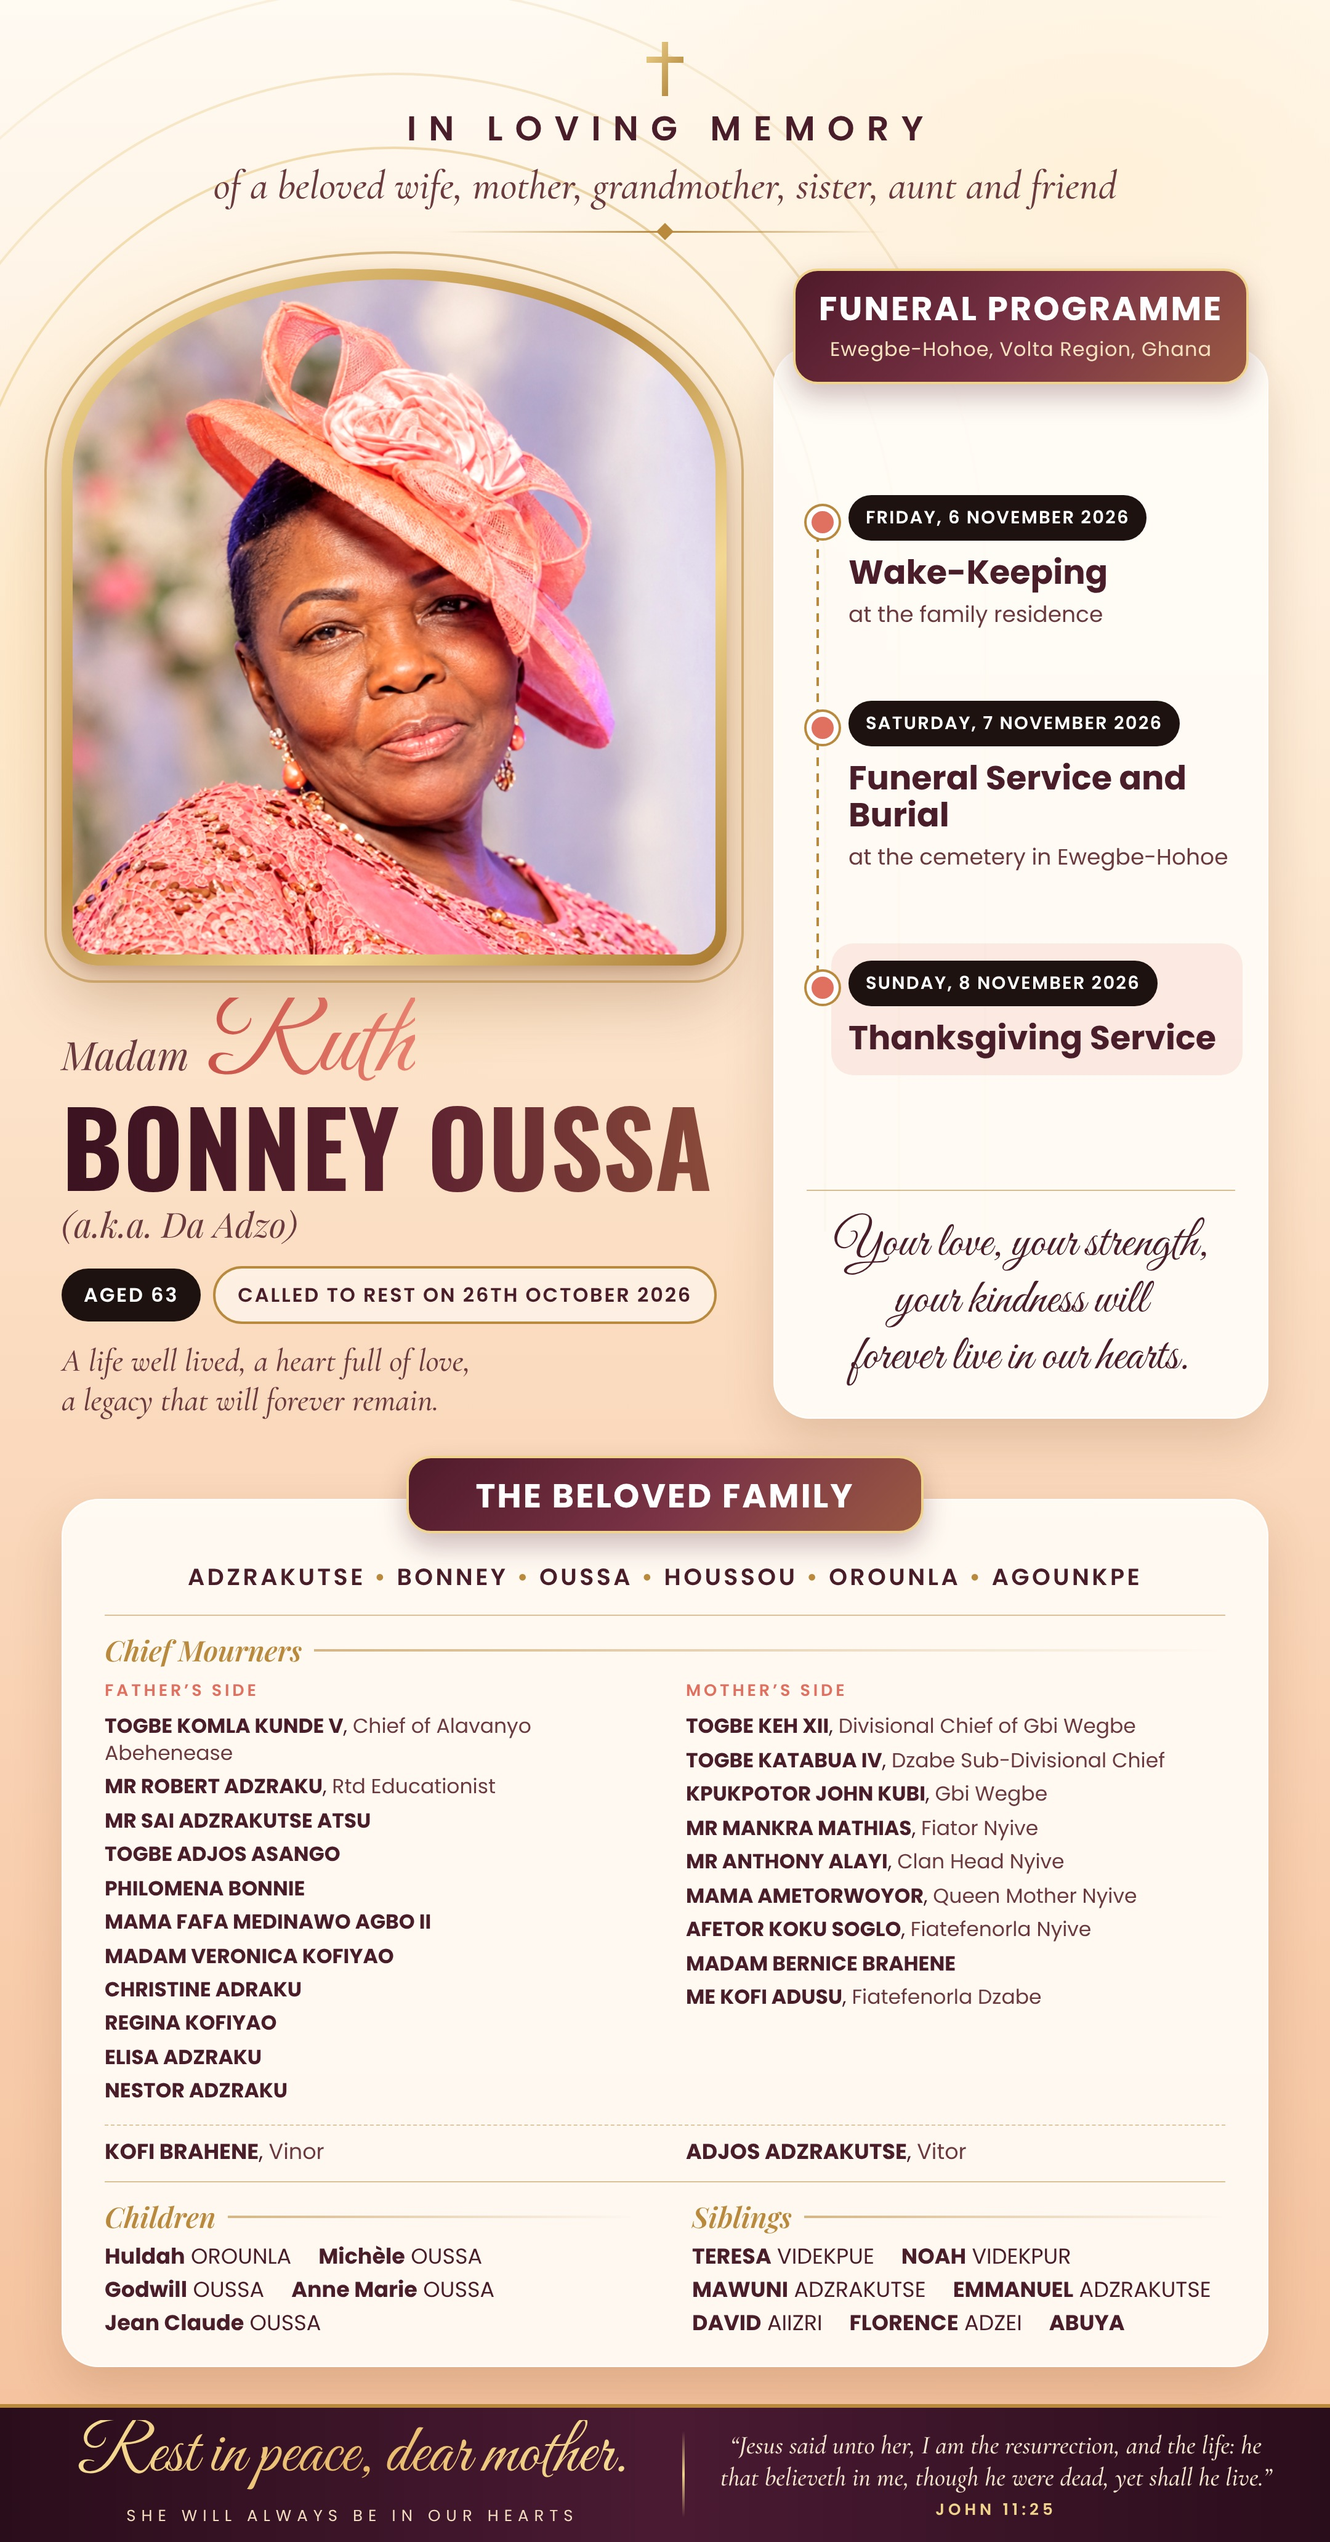
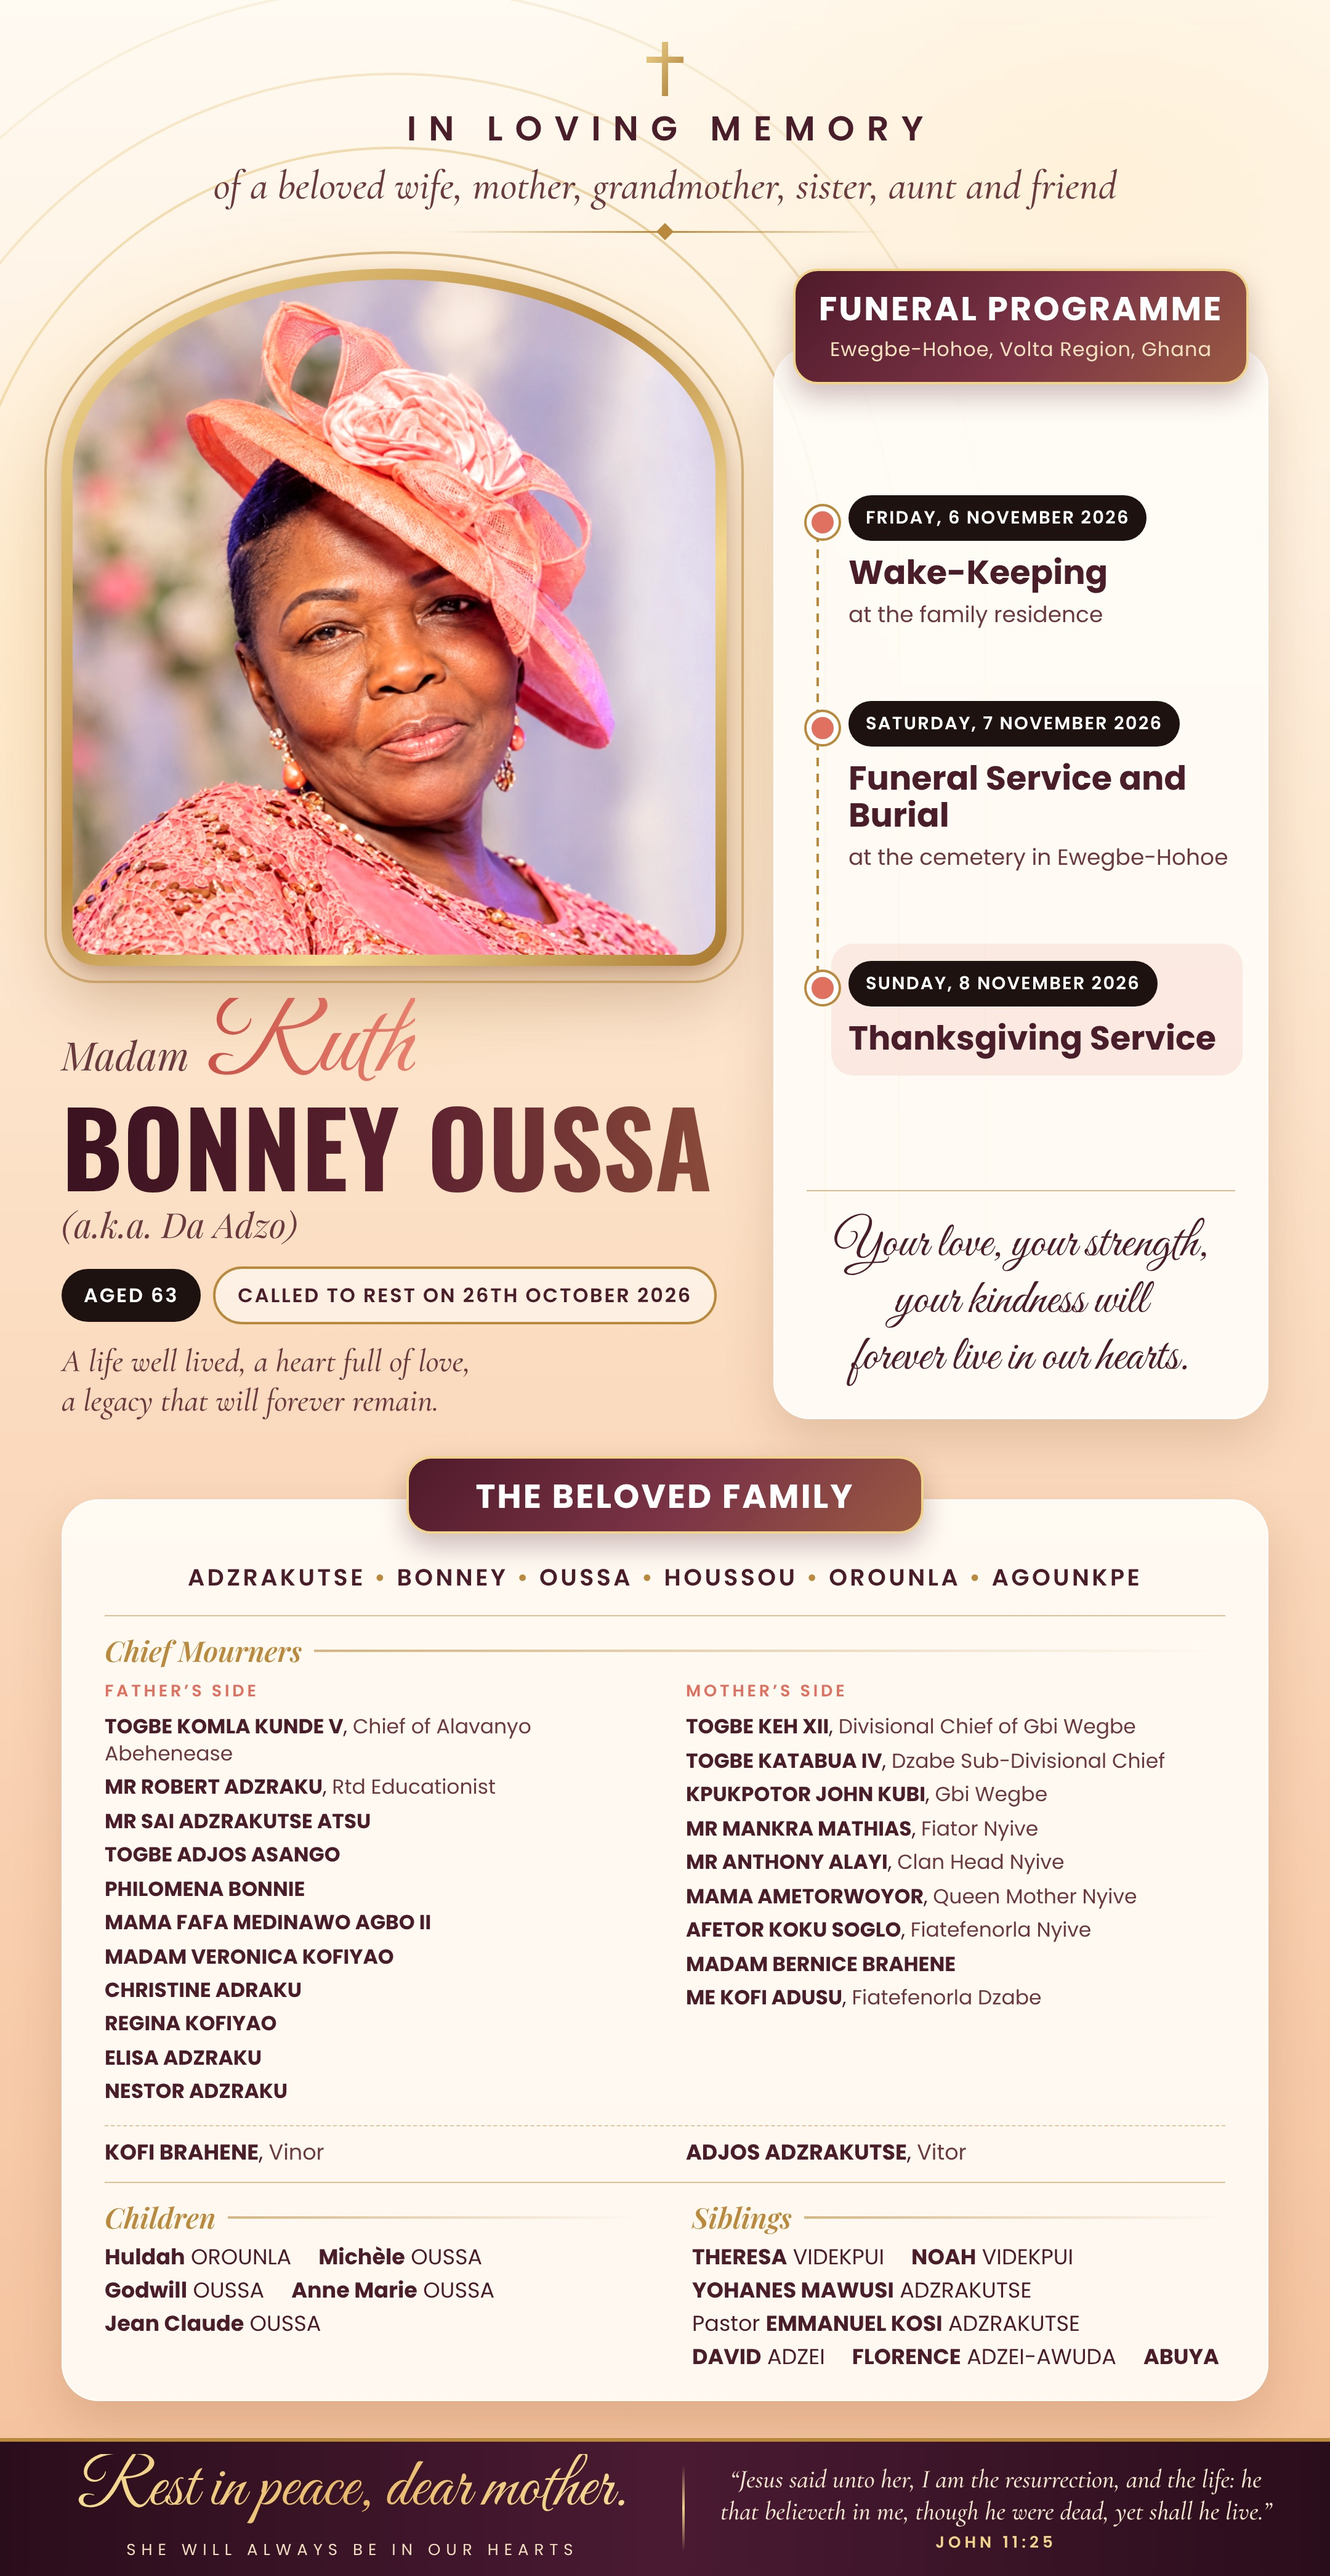
Posters: update siblings' names from the biography (EN/FR, tall and square)
Claude-Session: https://claude.ai/code/session_01K4EnF2A5EJ5axGxs2C2Gak

diff --git a/affiche-ruth-bonney-oussa/src/affiche-en-square.html b/affiche-ruth-bonney-oussa/src/affiche-en-square.html
@@ -159,7 +159,7 @@ footer .jn b{display:block;font-family:'Poppins',sans-serif;font-style:normal;fo
           <h4>Children</h4>
           <p class="names"><span class="nw"><b>Huldah</b> OROUNLA</span> <span class="nw"><b>Michèle</b> OUSSA</span> <span class="nw"><b>Godwill</b> OUSSA</span> <span class="nw"><b>Anne Marie</b> OUSSA</span> <span class="nw"><b>Jean Claude</b> OUSSA</span></p>
           <h4>Siblings</h4>
-          <p class="names"><span class="nw"><b>TERESA</b> VIDEKPUE</span> <span class="nw"><b>NOAH</b> VIDEKPUR</span> <span class="nw"><b>MAWUNI</b> ADZRAKUTSE</span> <span class="nw"><b>EMMANUEL</b> ADZRAKUTSE</span> <span class="nw"><b>DAVID</b> AIIZRI</span> <span class="nw"><b>FLORENCE</b> ADZEI</span> <span class="nw"><b>ABUYA</b></span></p>
+          <p class="names"><span class="nw"><b>THERESA</b> VIDEKPUI</span> <span class="nw"><b>NOAH</b> VIDEKPUI</span> <span class="nw"><b>YOHANES MAWUSI</b> ADZRAKUTSE</span> <span class="nw">Pastor <b>EMMANUEL KOSI</b> ADZRAKUTSE</span> <span class="nw"><b>DAVID</b> ADZEI</span> <span class="nw"><b>FLORENCE</b> ADZEI-AWUDA</span> <span class="nw"><b>ABUYA</b></span></p>
         </div>
         <div class="c1" style="grid-row:2;grid-column:1"><div class="side">Father’s side</div><p><b>TOGBE KOMLA KUNDE V</b>, <span>Chief of Alavanyo Abehenease</span></p>
 <p><b>MR ROBERT ADZRAKU</b>, <span>Rtd Educationist</span></p>

diff --git a/affiche-ruth-bonney-oussa/src/template-square-en.html b/affiche-ruth-bonney-oussa/src/template-square-en.html
@@ -158,7 +158,7 @@ footer .jn b{display:block;font-family:'Poppins',sans-serif;font-style:normal;fo
           <h4>{{h_children}}</h4>
           {{children_html}}
           <h4>{{h_siblings}}</h4>
-          <p class="names"><span class="nw"><b>TERESA</b> VIDEKPUE</span> <span class="nw"><b>NOAH</b> VIDEKPUR</span> <span class="nw"><b>MAWUNI</b> ADZRAKUTSE</span> <span class="nw"><b>EMMANUEL</b> ADZRAKUTSE</span> <span class="nw"><b>DAVID</b> AIIZRI</span> <span class="nw"><b>FLORENCE</b> ADZEI</span> <span class="nw"><b>ABUYA</b></span></p>
+          <p class="names"><span class="nw"><b>THERESA</b> VIDEKPUI</span> <span class="nw"><b>NOAH</b> VIDEKPUI</span> <span class="nw"><b>YOHANES MAWUSI</b> ADZRAKUTSE</span> <span class="nw">Pastor <b>EMMANUEL KOSI</b> ADZRAKUTSE</span> <span class="nw"><b>DAVID</b> ADZEI</span> <span class="nw"><b>FLORENCE</b> ADZEI-AWUDA</span> <span class="nw"><b>ABUYA</b></span></p>
         </div>
         <div class="c1" style="grid-row:2;grid-column:1"><div class="side">{{side_father}}</div>{{father_html}}</div>
         <div class="c2" style="grid-row:2;grid-column:2"><div class="side">{{side_mother}}</div>{{mother_html}}</div>

diff --git a/affiche-ruth-bonney-oussa/src/template-square.html b/affiche-ruth-bonney-oussa/src/template-square.html
@@ -173,7 +173,7 @@ footer .jn b{display:block;font-family:'Poppins',sans-serif;font-style:normal;fo
           <h4>{{h_children}}</h4>
           {{children_html}}
           <h4>{{h_siblings}}</h4>
-          <p class="names"><span class="nw"><b>TERESA</b> VIDEKPUE</span> <span class="nw"><b>NOAH</b> VIDEKPUR</span> <span class="nw"><b>MAWUNI</b> ADZRAKUTSE</span> <span class="nw"><b>EMMANUEL</b> ADZRAKUTSE</span> <span class="nw"><b>DAVID</b> AIIZRI</span> <span class="nw"><b>FLORENCE</b> ADZEI</span> <span class="nw"><b>ABUYA</b></span></p>
+          <p class="names"><span class="nw"><b>THERESA</b> VIDEKPUI</span> <span class="nw"><b>NOAH</b> VIDEKPUI</span> <span class="nw"><b>YOHANES MAWUSI</b> ADZRAKUTSE</span> <span class="nw">Pastor <b>EMMANUEL KOSI</b> ADZRAKUTSE</span> <span class="nw"><b>DAVID</b> ADZEI</span> <span class="nw"><b>FLORENCE</b> ADZEI-AWUDA</span> <span class="nw"><b>ABUYA</b></span></p>
         </div>
       </div>
     </div>

diff --git a/affiche-ruth-bonney-oussa/src/affiche-fr-square.html b/affiche-ruth-bonney-oussa/src/affiche-fr-square.html
@@ -179,7 +179,7 @@ footer .jn b{display:block;font-family:'Poppins',sans-serif;font-style:normal;fo
           <p><b>Anne Marie</b> OUSSA</p>
         </div>
           <h4>Frères et sœurs</h4>
-          <p class="names"><span class="nw"><b>TERESA</b> VIDEKPUE</span> <span class="nw"><b>NOAH</b> VIDEKPUR</span> <span class="nw"><b>MAWUNI</b> ADZRAKUTSE</span> <span class="nw"><b>EMMANUEL</b> ADZRAKUTSE</span> <span class="nw"><b>DAVID</b> AIIZRI</span> <span class="nw"><b>FLORENCE</b> ADZEI</span> <span class="nw"><b>ABUYA</b></span></p>
+          <p class="names"><span class="nw"><b>THERESA</b> VIDEKPUI</span> <span class="nw"><b>NOAH</b> VIDEKPUI</span> <span class="nw"><b>YOHANES MAWUSI</b> ADZRAKUTSE</span> <span class="nw">Pastor <b>EMMANUEL KOSI</b> ADZRAKUTSE</span> <span class="nw"><b>DAVID</b> ADZEI</span> <span class="nw"><b>FLORENCE</b> ADZEI-AWUDA</span> <span class="nw"><b>ABUYA</b></span></p>
         </div>
       </div>
     </div>

diff --git a/affiche-ruth-bonney-oussa/src/affiche-fr.html b/affiche-ruth-bonney-oussa/src/affiche-fr.html
@@ -237,7 +237,7 @@ footer .jn b{display:block;font-family:'Poppins',sans-serif;font-style:normal;fo
         </div>
         <div class="col">
           <h4>Frères et sœurs</h4>
-          <p class="names"><span class="nw"><b>TERESA</b> VIDEKPUE</span> <span class="nw"><b>NOAH</b> VIDEKPUR</span> <span class="nw"><b>MAWUNI</b> ADZRAKUTSE</span> <span class="nw"><b>EMMANUEL</b> ADZRAKUTSE</span> <span class="nw"><b>DAVID</b> AIIZRI</span> <span class="nw"><b>FLORENCE</b> ADZEI</span> <span class="nw"><b>ABUYA</b></span></p>
+          <p class="names"><span class="nw"><b>THERESA</b> VIDEKPUI</span> <span class="nw"><b>NOAH</b> VIDEKPUI</span> <span class="nw"><b>YOHANES MAWUSI</b> ADZRAKUTSE</span> <span class="nw">Pastor <b>EMMANUEL KOSI</b> ADZRAKUTSE</span> <span class="nw"><b>DAVID</b> ADZEI</span> <span class="nw"><b>FLORENCE</b> ADZEI-AWUDA</span> <span class="nw"><b>ABUYA</b></span></p>
         </div>
       </div>
     </div>

diff --git a/affiche-ruth-bonney-oussa/src/template.html b/affiche-ruth-bonney-oussa/src/template.html
@@ -222,7 +222,7 @@ footer .jn b{display:block;font-family:'Poppins',sans-serif;font-style:normal;fo
         </div>
         <div class="col">
           <h4>{{h_siblings}}</h4>
-          <p class="names"><span class="nw"><b>TERESA</b> VIDEKPUE</span> <span class="nw"><b>NOAH</b> VIDEKPUR</span> <span class="nw"><b>MAWUNI</b> ADZRAKUTSE</span> <span class="nw"><b>EMMANUEL</b> ADZRAKUTSE</span> <span class="nw"><b>DAVID</b> AIIZRI</span> <span class="nw"><b>FLORENCE</b> ADZEI</span> <span class="nw"><b>ABUYA</b></span></p>
+          <p class="names"><span class="nw"><b>THERESA</b> VIDEKPUI</span> <span class="nw"><b>NOAH</b> VIDEKPUI</span> <span class="nw"><b>YOHANES MAWUSI</b> ADZRAKUTSE</span> <span class="nw">Pastor <b>EMMANUEL KOSI</b> ADZRAKUTSE</span> <span class="nw"><b>DAVID</b> ADZEI</span> <span class="nw"><b>FLORENCE</b> ADZEI-AWUDA</span> <span class="nw"><b>ABUYA</b></span></p>
         </div>
       </div>
     </div>

diff --git a/affiche-ruth-bonney-oussa/src/affiche-en.html b/affiche-ruth-bonney-oussa/src/affiche-en.html
@@ -248,7 +248,7 @@ footer .jn b{display:block;font-family:'Poppins',sans-serif;font-style:normal;fo
         </div>
         <div class="col">
           <h4>Siblings</h4>
-          <p class="names"><span class="nw"><b>TERESA</b> VIDEKPUE</span> <span class="nw"><b>NOAH</b> VIDEKPUR</span> <span class="nw"><b>MAWUNI</b> ADZRAKUTSE</span> <span class="nw"><b>EMMANUEL</b> ADZRAKUTSE</span> <span class="nw"><b>DAVID</b> AIIZRI</span> <span class="nw"><b>FLORENCE</b> ADZEI</span> <span class="nw"><b>ABUYA</b></span></p>
+          <p class="names"><span class="nw"><b>THERESA</b> VIDEKPUI</span> <span class="nw"><b>NOAH</b> VIDEKPUI</span> <span class="nw"><b>YOHANES MAWUSI</b> ADZRAKUTSE</span> <span class="nw">Pastor <b>EMMANUEL KOSI</b> ADZRAKUTSE</span> <span class="nw"><b>DAVID</b> ADZEI</span> <span class="nw"><b>FLORENCE</b> ADZEI-AWUDA</span> <span class="nw"><b>ABUYA</b></span></p>
         </div>
       </div>
     </div>
